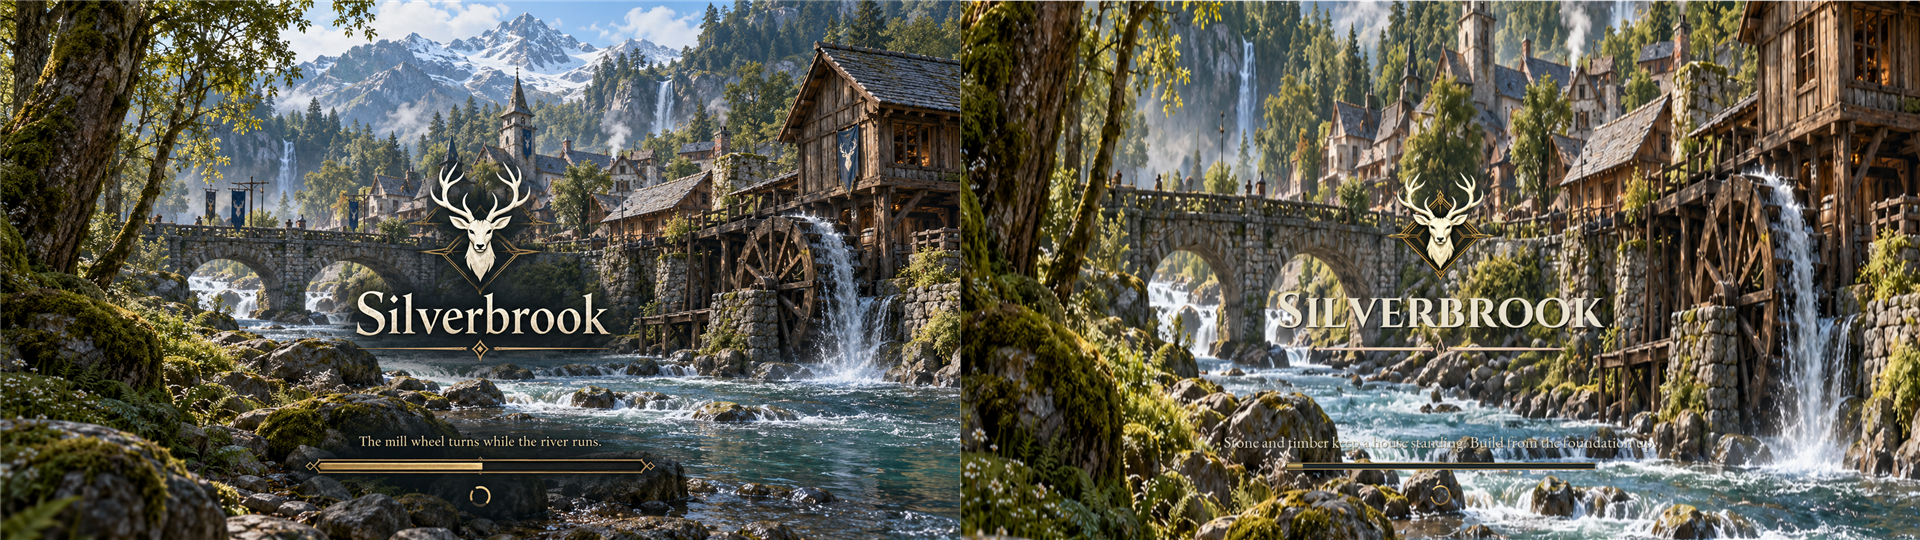
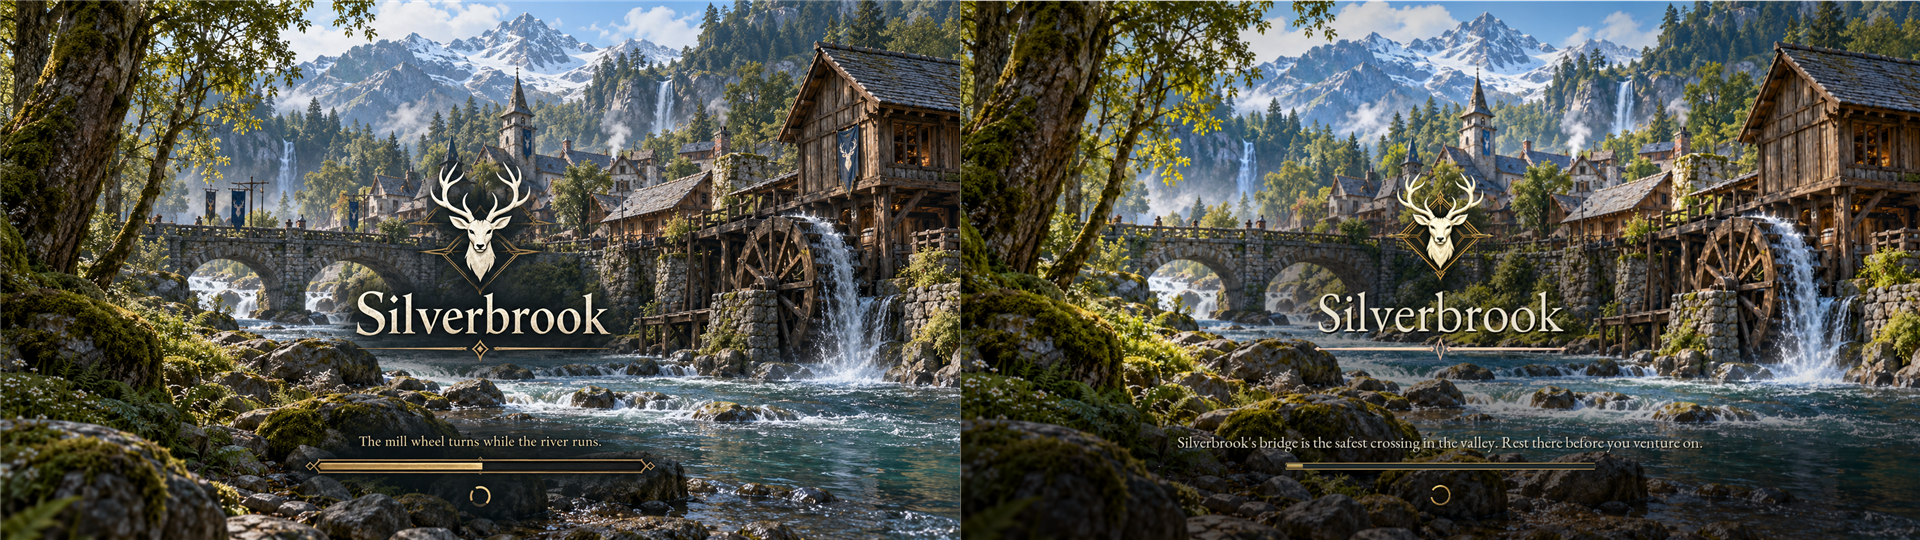
Loading screen: v5 recapture (16:9 + ultrawide) matching the concept

diff --git a/GameClient/ArtSource/UI/LoadingScreen-v5/README.md b/GameClient/ArtSource/UI/LoadingScreen-v5/README.md
@@ -2,6 +2,6 @@
 
 Target: `docs/Game-Design/concept-art/UI/v5/9-loading-screen.png` (`concept.png` here is a copy). `generate.sh` makes `source/` with the Codex image tool (magenta key for the UI pieces; `ls_background` is scene-only, no UI). `tools/Process-HudKit.ps1 -Kit GameClient/ArtSource/UI/LoadingScreen-v5` writes `processed/`; `Import-LoadingScreen-v5.py` imports everything to `/Game/Frontier/UI/LoadingScreen/T_LS_*`. Widget: `Framework/SFLoadingScreen.cpp`.
 
-Evidence: `docs/evidence/ui-v5/9-loading-screen-live.png` (-game, 1920x1080) and `9-loading-screen-compare.png` (concept left, live right).
+Evidence: `docs/evidence/ui-v5/9-loading-screen-live.png` (-game, 1920x1080), `9-loading-screen-compare.png` (concept left, live right) and `9-loading-screen-live-ultrawide.png` (2580x1080: background crops, nothing squashes).
 
-Contrast layer: `Make-Vignette.ps1` writes `source/ls_vignette.png` (edge vignette, dark ellipse behind emblem/title, bottom band), imported as `T_LS_Vignette`. Title is EB Garamond (mixed case). Known differences: the bar fill is a time-based ease (MoviePlayer gives no progress), not real load progress.
+Remaining differences: the concept has a darker local plaque behind the emblem/title and a thicker bar; the live bar starts nearly empty (time ease). Contrast layer: `Make-Vignette.ps1` writes `source/ls_vignette.png` (edge vignette, dark ellipse behind emblem/title, bottom band), imported as `T_LS_Vignette`. Title is EB Garamond (mixed case). Known differences: the bar fill is a time-based ease (MoviePlayer gives no progress), not real load progress.
